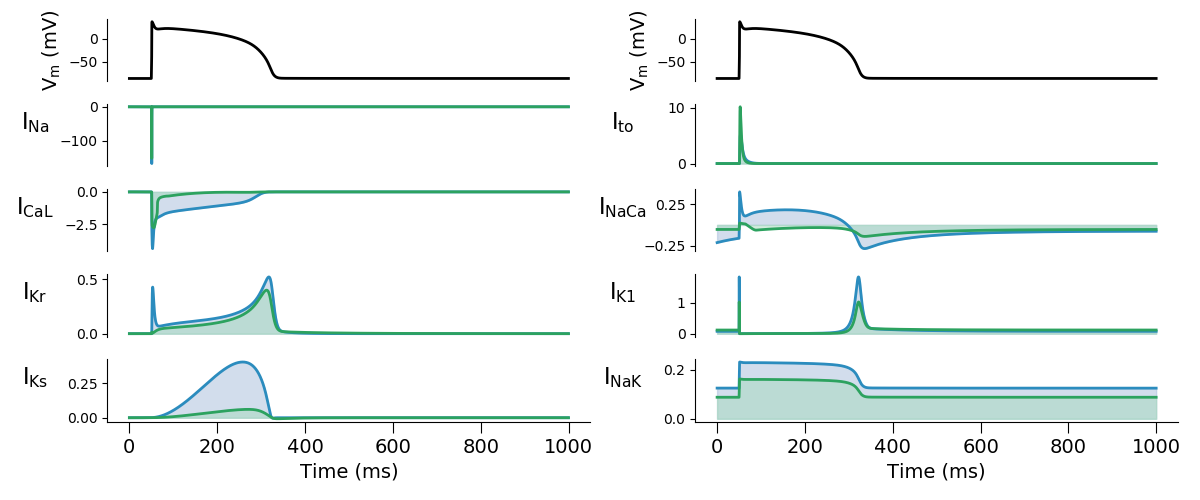
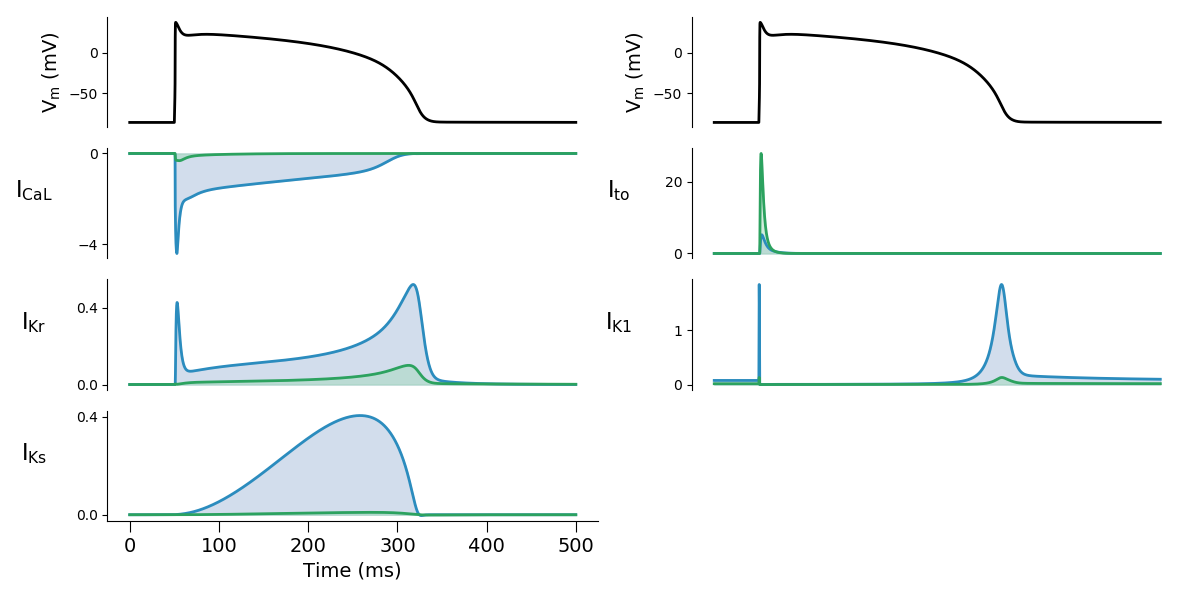
Remove identical kinetics currents; rescale currents by conductances

diff --git a/action-potential-models/plot-differences.py b/action-potential-models/plot-differences.py
@@ -22,10 +22,12 @@ currents = [(r'$\mathregular{I_{Na}}$', '#2b8cbe', '#a6bddb'),
          (r'$\mathregular{I_{NaK}}$', '#54278f', '#756bb1'),
          ]
 
+take_out = [0, 5, 7]  # identical kinetics
+
 # Get voltage traces (stim1hz)
 stim_seq = p.stim1hz
 times = p.stim1hz_times
-idx_until = len(times) // 5
+idx_until = int(len(times) // 10)
 stim_seq = stim_seq[:idx_until]
 times = times[:idx_until]
 
@@ -35,18 +37,24 @@ model_tnnp.set_name('tnnp-2004')
 model_fink = m.Model('./mmt-model-files/fink-2008.mmt', stim_seq=stim_seq)
 model_fink.set_name('fink-2008')
 
-# Simulate and add noise
+# Simulate voltage
 voltage = model_tnnp.simulate(np.ones(model_tnnp.n_parameters()), times)
+
+# Re-noramlisation factor
+renormalisation = np.asarray(model_fink.original) \
+        / np.asarray(model_tnnp.original)
+
+# Just double checking, should all be the same
+renormalised_fink = np.ones(model_fink.n_parameters()) * renormalisation 
 
 # Simulate current
 currents_tnnp = model_tnnp.current(np.ones(model_tnnp.n_parameters()),
         voltage, times)
-currents_fink = model_fink.current(np.ones(model_fink.n_parameters()),
-        voltage, times)
+currents_fink = model_fink.current(renormalised_fink, voltage, times)
 
 # Plot
-fig = plt.figure(figsize=(12, 5))
-grid = plt.GridSpec(5, 2, hspace=0.1, wspace=0.225)
+fig = plt.figure(figsize=(12, 6))
+grid = plt.GridSpec(4, 2, hspace=0.1, wspace=0.225)
 # Vm
 for i in range(2):
     vm_ax = fig.add_subplot(grid[0, i])
@@ -64,9 +72,11 @@ for i in range(2):
     vm_ax.spines['bottom'].set_visible(False)
 
 # currents
-for i, c in enumerate(m.parameters):
+plot_parameters = [p for i, p in enumerate(m.parameters) if i not in take_out]
+plot_currents = [c for i, c in enumerate(currents) if i not in take_out]
+for i, c in enumerate(plot_parameters):
     n = c[:-2]
-    gx, gy = i % 4, int(i // 4)
+    gx, gy = i % 3, int(i // 3)
     ax = fig.add_subplot(grid[gx + 1, gy])
     ax.plot(times, currents_tnnp[n], c='#2b8cbe', lw=2)
     ax.fill_between(times, 0, currents_tnnp[n], color='#a6bddb', alpha=0.5)
@@ -75,10 +85,10 @@ for i, c in enumerate(m.parameters):
     # Change y-ticks
     yticks = ax.get_yticks()
     ax.set_yticks([yticks[1], yticks[-2]])
-    ax.set_ylabel(currents[i][0], rotation=0, fontsize=16)
+    ax.set_ylabel(plot_currents[i][0], rotation=0, fontsize=16)
     ax.get_yaxis().set_label_coords(-0.15, 0.5)
     # Change frame and x-ticks
-    if gx + 1 != 4:
+    if gx + 1 != 3:
         ax.tick_params(axis='x',
                        which='both',
                        bottom=False,
@@ -100,6 +110,7 @@ for i, c in enumerate(m.parameters):
         ax.spines['right'].set_visible(False)
 
 grid.tight_layout(fig, pad=1.0, rect=(0.01, 0.01, 1, 1))
+#grid.update(wspace=0.1, hspace=0.05)
 plt.savefig('fig/model-differences.png', bbox_inch='tight', pad_inches=0)
 #plt.savefig('fig/model-differences.pdf', format='pdf', bbox_inch='tight',
 #        pad_inches=0, transparent=True)
